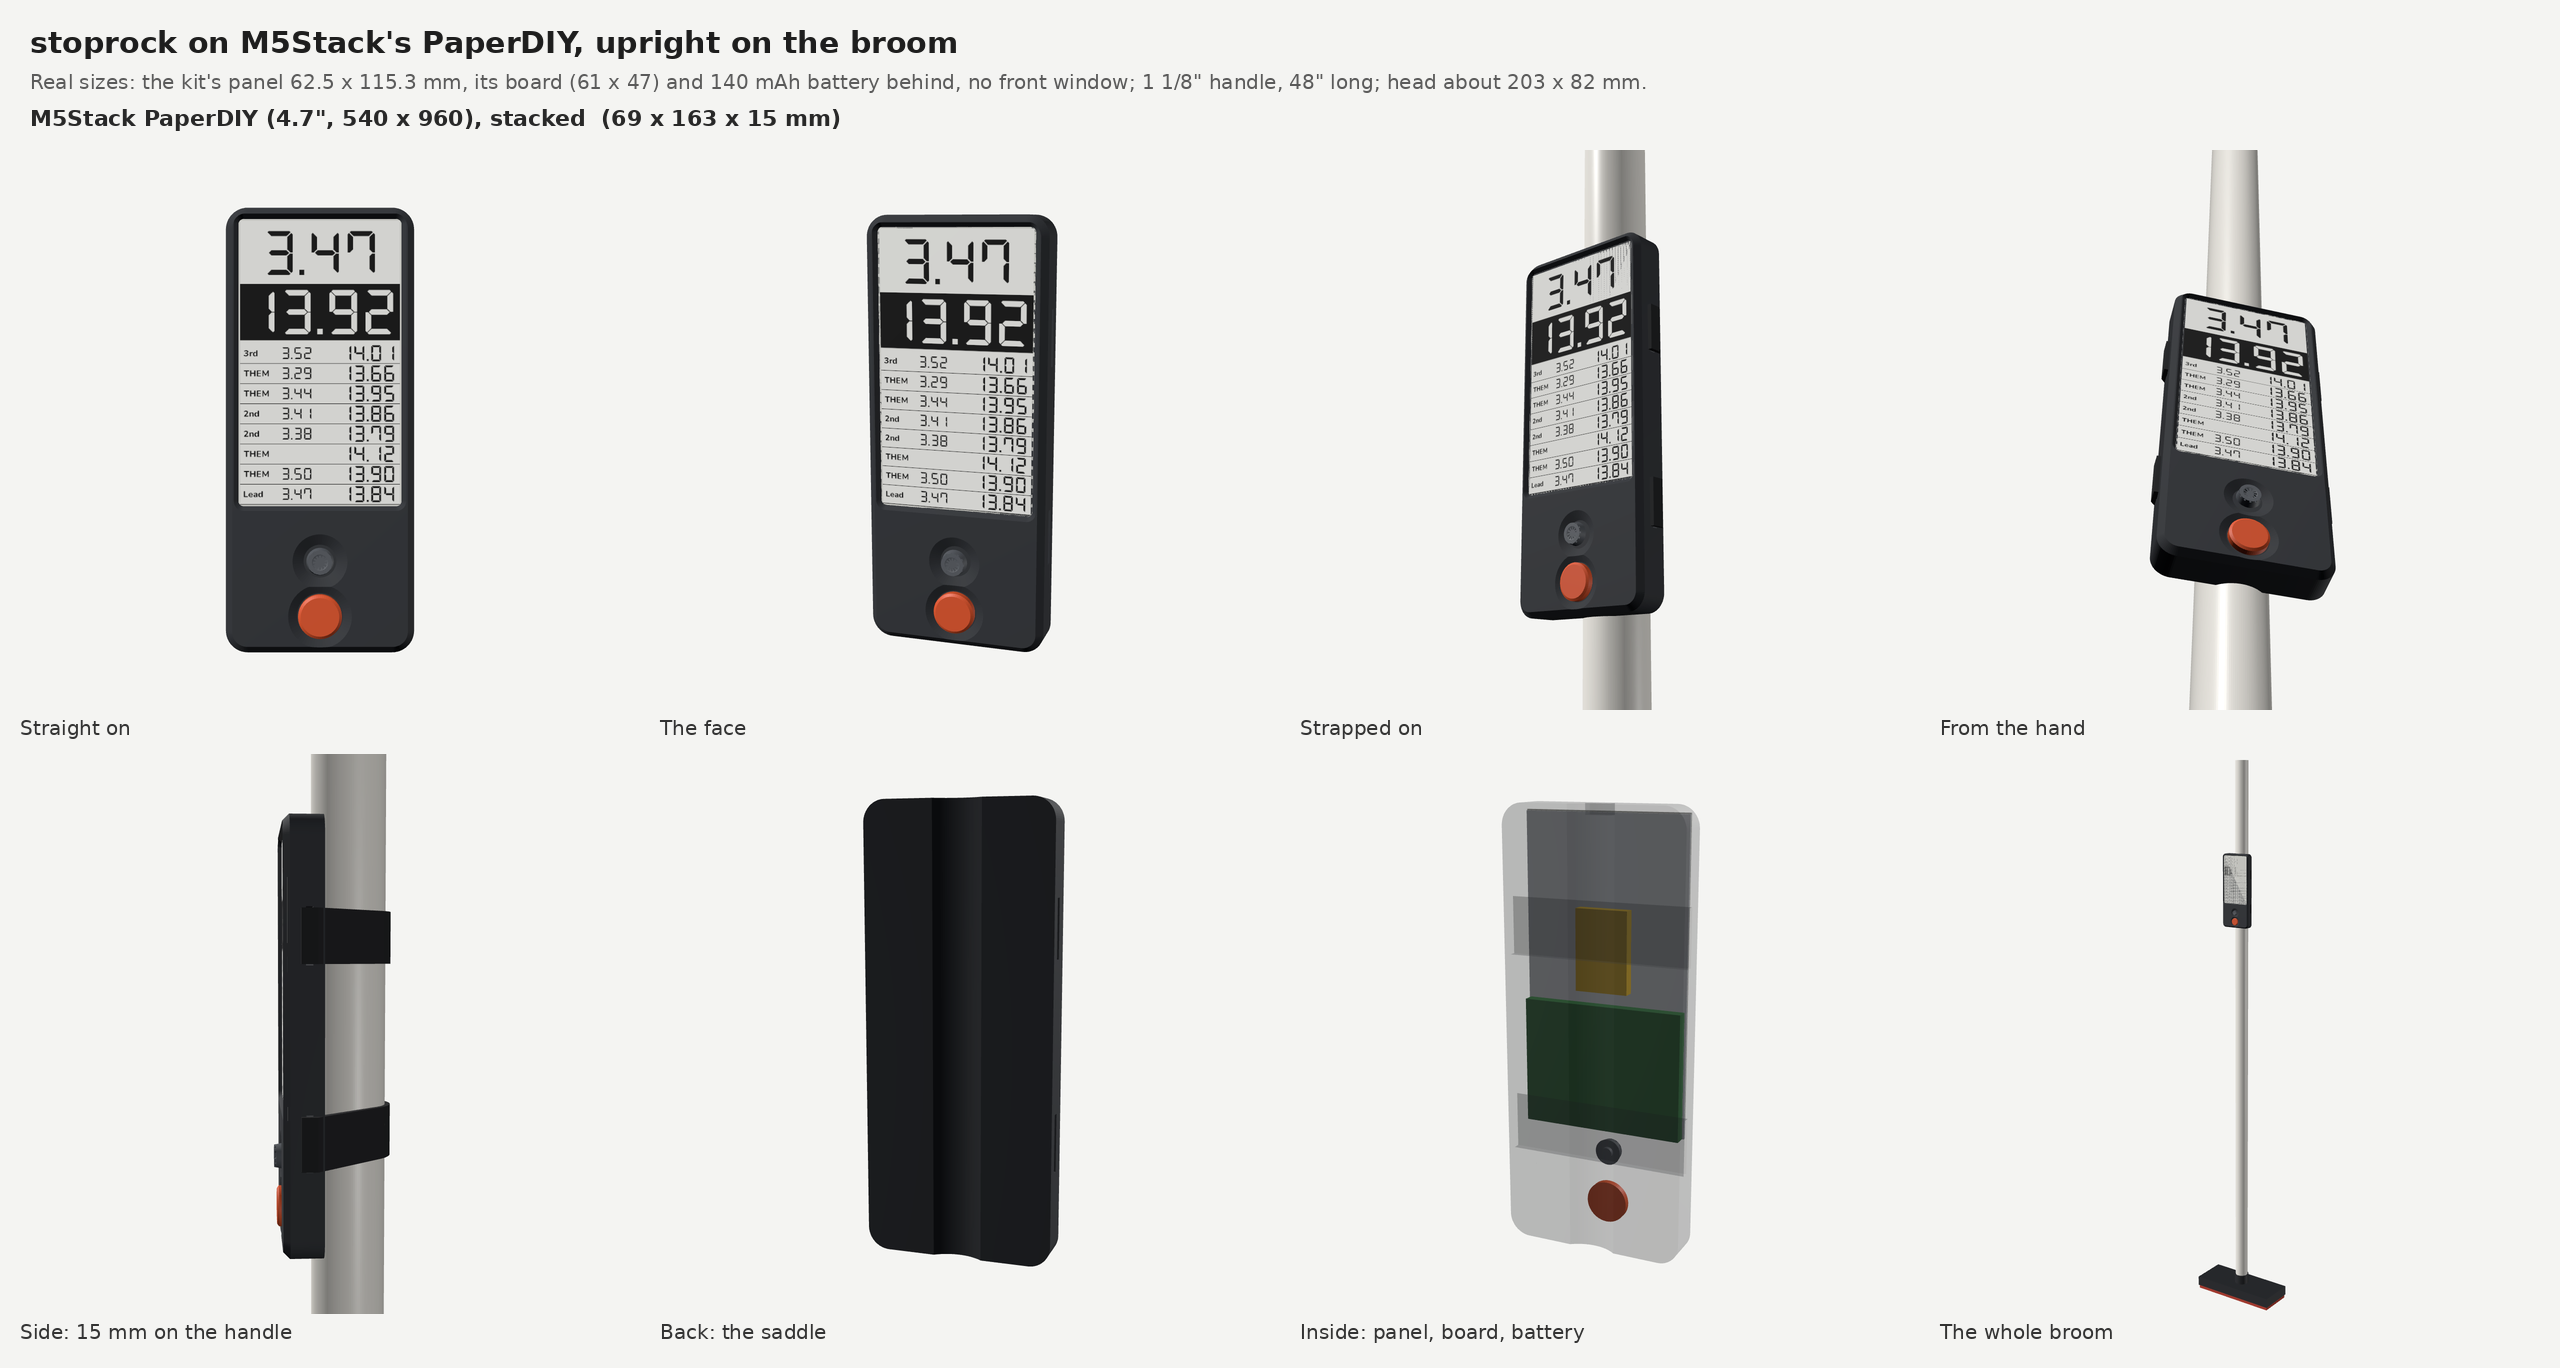
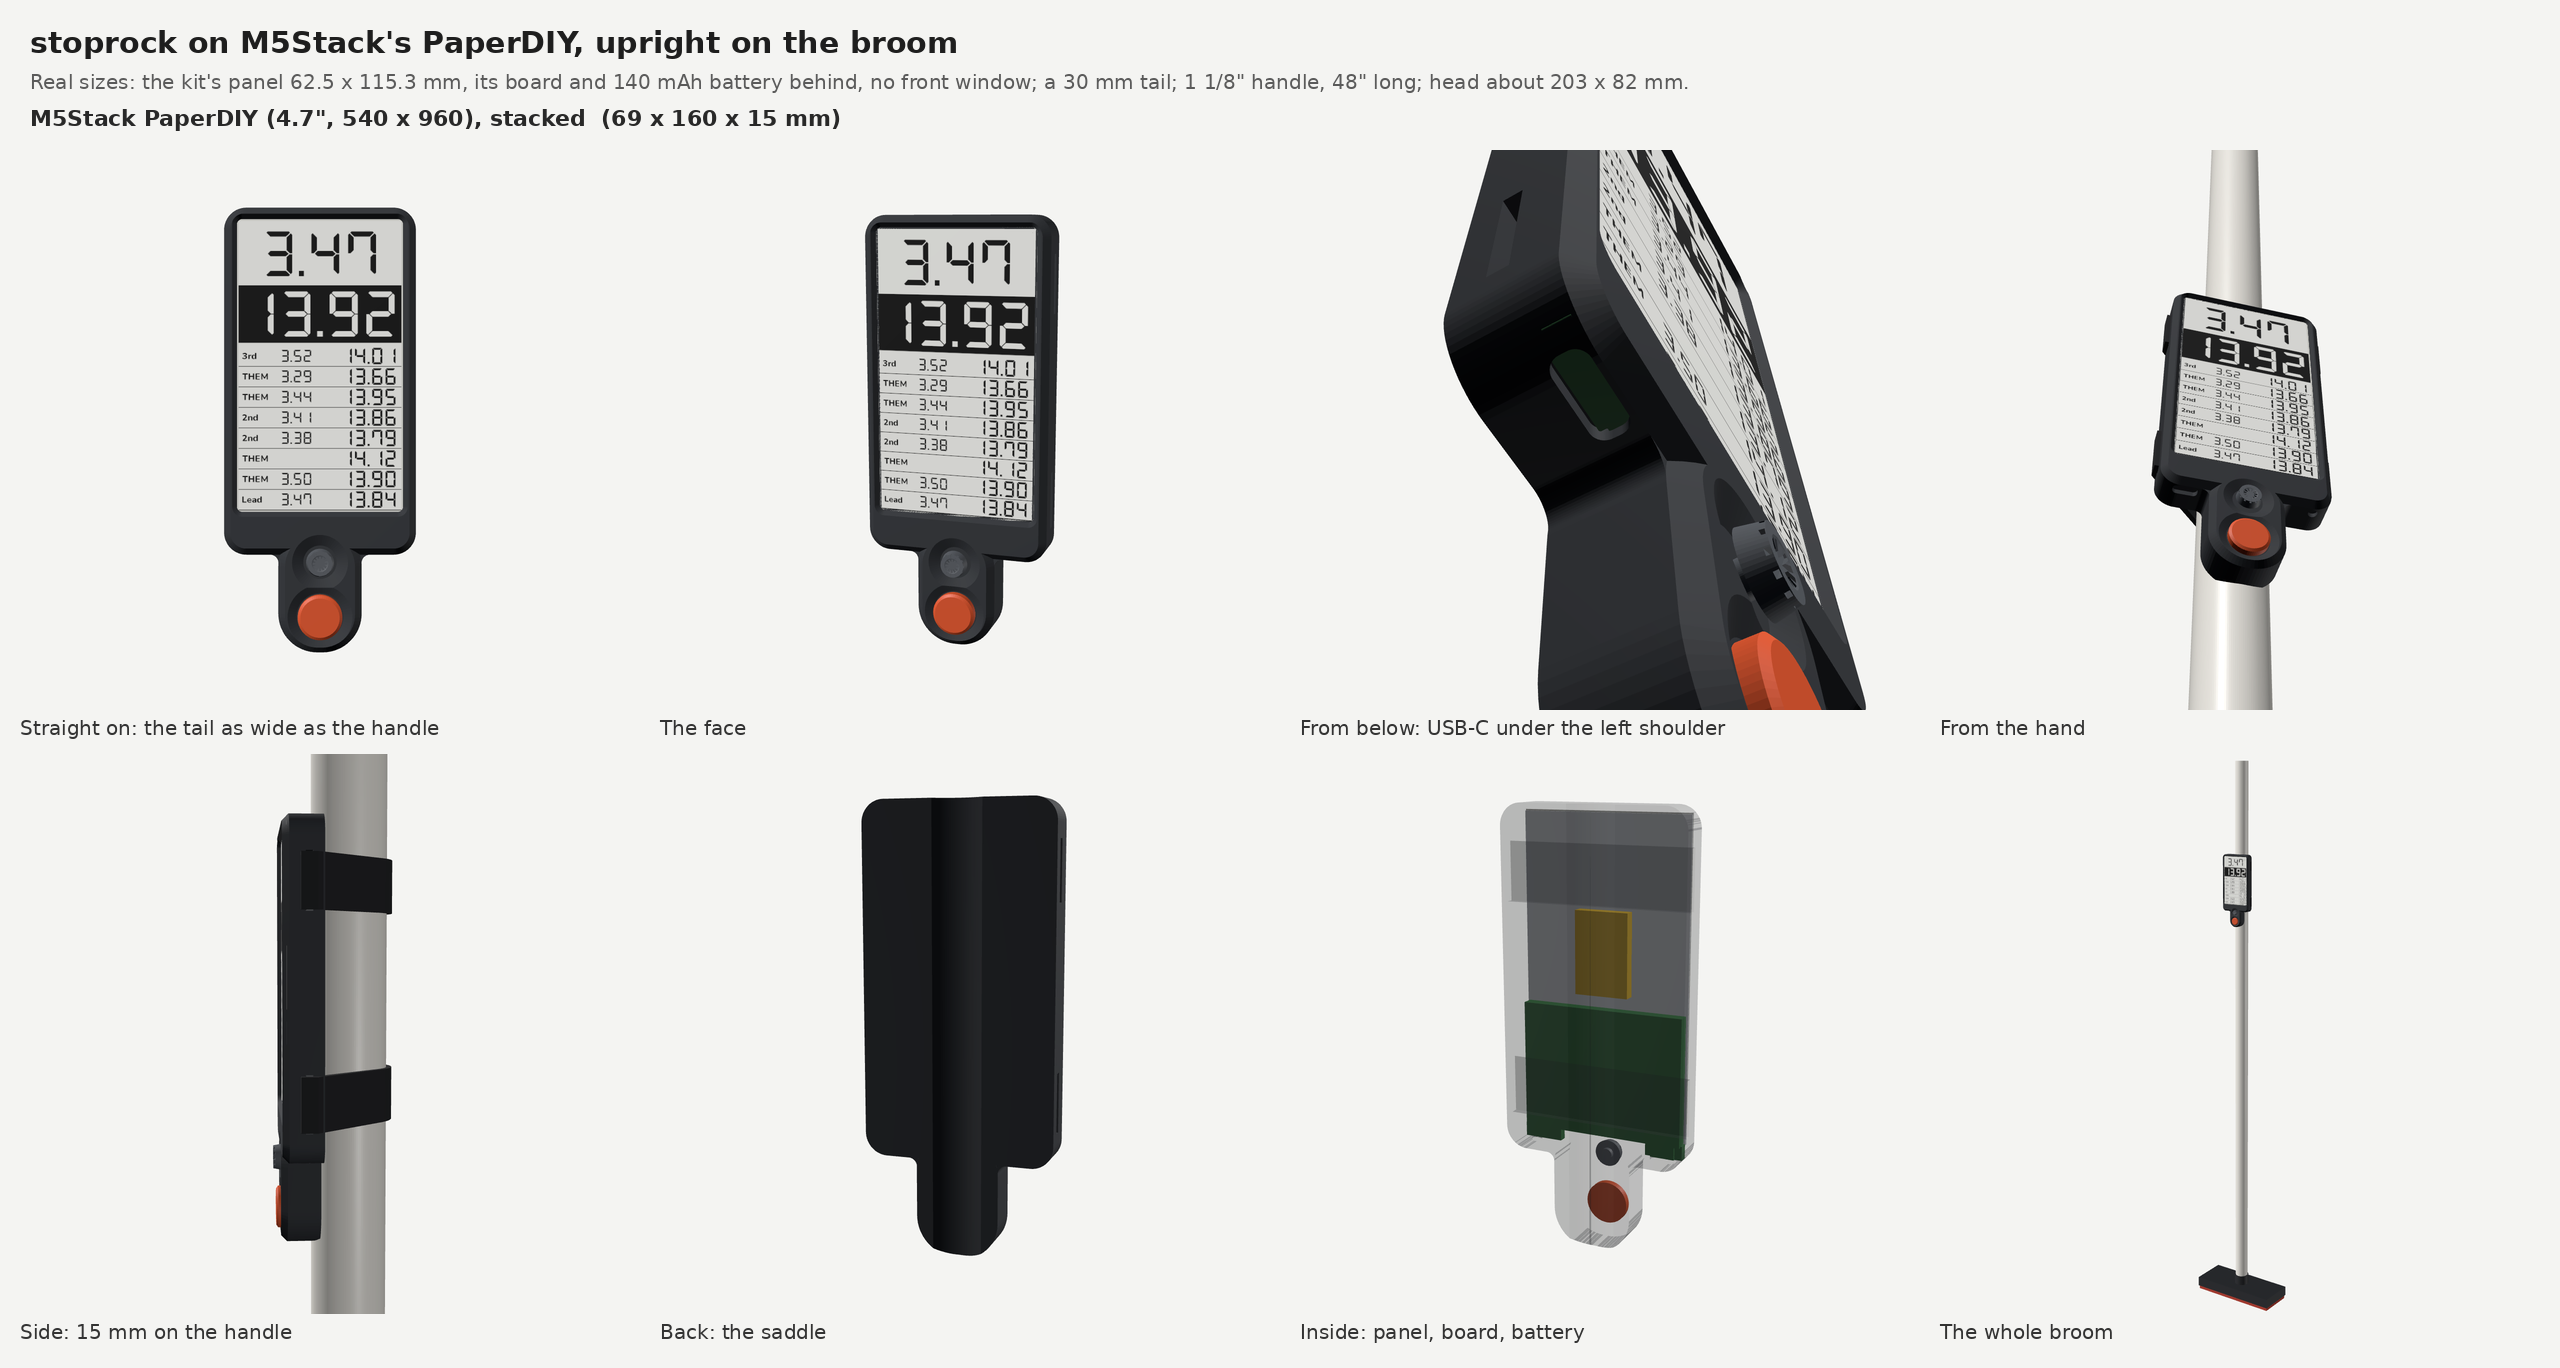
Concept (PaperDIY): narrow to a broom-width tail for the controls; ports under the shoulders
Below the screen the case narrows to a 30 mm tail for the stick and the timing
button. The kit's USB-C port and power button sit in two board tabs at the
panel's bottom corners, facing down; the tail fits between them, so both face
down onto the open shoulders, with an opening for USB-C and a hole for the
power button. 69 x 160 x 15 mm. New view from below; the layout list now
merges, so one layout can be rebuilt alone.

Claude-Session: https://claude.ai/code/session_01YA9zoncxe9XeMCwR12hQbC

diff --git a/hardware/concept-266/render/index.html b/hardware/concept-266/render/index.html
@@ -30,6 +30,7 @@ const add = async (file, material) => { const m = new THREE.Mesh(await load(file
 const part = (n) => `model-${layout}-${n}.stl`;
 const xray = view === 'xray';
 await add(part('body'), mat(0x2b2e33, xray ? { roughness: 0.8, transparent: true, opacity: 0.28, depthWrite: false } : { roughness: 0.8 }));
+if (view === 'under') await add(part('board'), mat(0x2f6b3a, { roughness: 0.6 }));   // the port, in its opening
 if (xray) {
   await add(part('panel'), mat(0xcfd2d6, { roughness: 0.4 }));
   await add(part('board'), mat(0x2f6b3a, { roughness: 0.6 }));
@@ -63,6 +64,7 @@ const views = {
   side: [[210, 15, 10], [0, 0, -8]],
   back: [[-60, 30, -180], [0, 0, -4]],
   xray: [[-80, 50, -170], [0, 0, 0]],
+  under: [[-34, -66, 14], [-20, -44, 1]],
   'broom-full': [[1350, 250, 1900], [0, -330, -12]],
 };
 const [pos0, look] = views[view] || views.front;

diff --git a/hardware/concept-266/concept.py b/hardware/concept-266/concept.py
@@ -37,9 +37,13 @@ LAYOUTS = {
     # Its panel is 62.5 x 115.3 x 1.2 mm with the board (61.2 x 47.1) on the back of its lower end,
     # 5.5 mm in all; the window is the visible area M5Stack's own enclosure shows (59.6 x 105.1), its
     # top 1 mm below the panel's top edge (the panel's wide border, 9.7 mm, is at the board end).
-    "paperdiy": dict(W=69.0, H=163.0, R=8.0, T=15.0, portrait=True, stick=(34.5, 33.5), button=(34.5, 13.5),
+    # Below the screen the case narrows to a tail the width of the handle for the stick and the button.
+    # The kit's board sticks out 4.76 mm below the panel in two corner tabs (0-14.1 and 48-62.5 mm from
+    # the panel's left edge, seen from the front) with USB-C in the left one and the power button in the
+    # right, both facing down: the tail fits between them, so both face down onto open shoulders.
+    "paperdiy": dict(W=69.0, H=160.0, R=8.0, T=15.0, portrait=True, stick=(34.5, 32.5), button=(34.5, 13.0),
                      glass=(62.5, 115.3), window=(59.6, 105.1), glass_margin=3.3, window_top=1.0,
-                     screen="screen-paperdiy.png", broom=True),
+                     screen="screen-paperdiy.png", broom=True, tail=30.0),
 }
 
 
@@ -63,6 +67,9 @@ def configure(name):
         SCREEN_CY = GLASS_TOP - GLASS[1] / 2
     (STICK_X, STICK_Y), (BUTTON_X, BUTTON_Y) = L["stick"], L["button"]
     TUNNEL_YS = (H * 0.27, H * 0.73)
+    if L.get("tail"):  # both tunnels in the wide part, clear of the shoulders
+        pb = GLASS_TOP - GLASS[1]
+        TUNNEL_YS = (pb + 16.0, H - 24.0)
 
 
 # ------------------------------------------------------------------ the broom
@@ -81,11 +88,40 @@ def _round():
     return JoinType.Round
 
 
+# The PaperDIY's bottom edge (front view, from the panel's left edge): the board's two tabs, and the
+# USB-C port and power button in them, facing down.
+TAB_DROP = 4.76
+TABS = ((0.0, 14.1), (48.0, 62.5))
+USB_X, USB_W, USB_H = (2.0, 12.6), 8.94, 3.3     # the port's span, and the receptacle's size
+POWER_X = 58.5                                   # the power button's centre
+SHOULDER_WALL = 1.5                              # under the tabs
+
+
+def rounded_piece(w, h, r, cx, cy):
+    """A rounded-edged slab: the plan's outline, its front edge eased by EDGE."""
+    lower = rounded_rect(w, h, r, cx, cy).extrude(T - EDGE)
+    top = rounded_rect(w - 2 * EDGE, h - 2 * EDGE, r - EDGE, cx, cy).extrude(0.01).translate((0, 0, T - 0.01))
+    return Manifold.batch_hull([lower, top])
+
+
+def panel_bottom():
+    return GLASS_TOP - GLASS[1]
+
+
 def body():
-    plan = rounded_rect(W, H, R, W / 2, H / 2)
-    lower = plan.extrude(T - EDGE)
-    top = rounded_rect(W - 2 * EDGE, H - 2 * EDGE, R - EDGE, W / 2, H / 2).extrude(0.01).translate((0, 0, T - 0.01))
-    shell = Manifold.batch_hull([lower, top])
+    tail = CONFIG.get("tail")
+    if not tail:
+        shell = rounded_piece(W, H, R, W / 2, H / 2)
+    else:
+        shoulder = panel_bottom() - TAB_DROP - SHOULDER_WALL        # the wide part's bottom face
+        wide = rounded_piece(W, H - shoulder, R, W / 2, (H + shoulder) / 2)
+        neck = rounded_piece(tail, shoulder + R + 2, tail / 2 - 1, W / 2, (shoulder + R + 2) / 2)
+        # concave fillets where the tail meets the shoulders
+        plan = (rounded_rect(W, H - shoulder, R, W / 2, (H + shoulder) / 2)
+                + rounded_rect(tail, shoulder + R + 2, tail / 2 - 1, W / 2, (shoulder + R + 2) / 2))
+        closed = plan.offset(3.0, join_type=_round(), circular_segments=SEG).offset(-3.0, join_type=_round(), circular_segments=SEG)
+        fillets = (closed - plan).extrude(T - EDGE)
+        shell = wide + neck + fillets
     # the screen window, recessed, with a 45-degree lead-in
     win = rounded_rect(*WINDOW, 2.0, W / 2, SCREEN_CY)
     pocket = Manifold.batch_hull([
@@ -105,9 +141,17 @@ def body():
     # two strap tunnels, across the back, open at both sides
     tunnels = [Manifold.cube((W + 2, STRAP_W + 1, TUNNEL_Z[1] - TUNNEL_Z[0])).translate((-1, y - (STRAP_W + 1) / 2, TUNNEL_Z[0]))
                for y in TUNNEL_YS]
-    # USB-C at the top end, for charging
-    usb = Manifold.cube((9.5, 6, 3.6)).translate((W / 2 - 4.75, H - 4, T / 2 - 1.8))
-    return shell - pocket - sum(wells[1:], wells[0]) - saddle - tunnels[0] - tunnels[1] - usb
+    if not tail:  # USB-C at the top end, for charging
+        usb = Manifold.cube((9.5, 6, 3.6)).translate((W / 2 - 4.75, H - 4, T / 2 - 1.8))
+        return shell - pocket - sum(wells[1:], wells[0]) - saddle - tunnels[0] - tunnels[1] - usb
+    # the kit's bottom edge faces down onto the shoulders: an opening for USB-C, a hole for the power button
+    gx0 = W / 2 - GLASS[0] / 2
+    port_z = T - WINDOW_DEPTH - 1.2 - 2.4                          # behind the glass, on the board
+    y0 = panel_bottom() - TAB_DROP - SHOULDER_WALL - 0.5
+    usb = rounded_rect(USB_W + 0.8, USB_H + 0.8, 1.6).extrude(SHOULDER_WALL + 1.0)
+    usb = usb.rotate((-90, 0, 0)).translate((gx0 + sum(USB_X) / 2, y0, port_z))
+    power = Manifold.cylinder(SHOULDER_WALL + 1.0, 1.9, circular_segments=SEG).rotate((-90, 0, 0)).translate((gx0 + POWER_X, y0, port_z))
+    return shell - pocket - sum(wells[1:], wells[0]) - saddle - tunnels[0] - tunnels[1] - usb - power
 
 
 def screen_bed():
@@ -177,7 +221,12 @@ def internals():
     front = T - WINDOW_DEPTH                     # the glass's face, under the window's lip
     gx0 = W / 2 - GLASS[0] / 2
     panel = Manifold.cube((GLASS[0], GLASS[1], 1.2)).translate((gx0, GLASS_TOP - GLASS[1], front - 1.2))
-    board = Manifold.cube((61.15, 47.1, 4.3)).translate((W / 2 - 61.15 / 2, GLASS_TOP - GLASS[1], front - 5.5))
+    pb = GLASS_TOP - GLASS[1]
+    board = Manifold.cube((61.15, 47.1, 4.3)).translate((W / 2 - 61.15 / 2, pb, front - 5.5))
+    for a, b in TABS:   # the tabs below the panel, with USB-C in the left one
+        board = board + Manifold.cube((b - a, TAB_DROP + 0.5, 3.0)).translate((gx0 + a, pb - TAB_DROP, front - 4.4))
+    port_z = front - 1.2 - 2.4
+    board = board + Manifold.cube((USB_W, 7.3, USB_H)).translate((gx0 + sum(USB_X) / 2 - USB_W / 2, pb - TAB_DROP, port_z - USB_H / 2))
     battery = Manifold.cube((20.0, 30.0, 4.0)).translate((W / 2 - 10.0, GLASS_TOP - GLASS[1] + 52.0, front - 5.2))
     return panel, board, battery
 
@@ -208,7 +257,8 @@ if __name__ == "__main__":
     import json
     import sys
     OUT.mkdir(exist_ok=True)
-    layouts = {}
+    index = OUT / "layouts.json"   # kept for every layout built, so one can be rebuilt alone
+    layouts = json.loads(index.read_text()) if index.exists() else {}
     for name in sys.argv[1:] or LAYOUTS:
         configure(name)
         parts = [("body", body()), ("glass", screen_bed()), ("stick", stick()), ("button", button()),
@@ -222,4 +272,4 @@ if __name__ == "__main__":
                              portrait=LAYOUTS[name]["portrait"], texture=CONFIG.get("screen"),
                              broom=bool(CONFIG.get("broom")))
         print(f"{name:9} case {W:.0f} x {H:.0f} x {T:.0f} mm; window {WINDOW[0]:.1f} x {WINDOW[1]:.1f}")
-    (OUT / "layouts.json").write_text(json.dumps(layouts, indent=1))
+    index.write_text(json.dumps(layouts, indent=1))

diff --git a/hardware/concept-266/render/sheet.py b/hardware/concept-266/render/sheet.py
@@ -64,9 +64,10 @@ def grid(lay, views, out, title, sub, cols=4, scale=2, captions=None):
     print("wrote", out)
 
 
-grid("paperdiy", ["face", "front", "broom", "broom-hand", "side", "back", "xray", "broom-full"], "concept-paperdiy.png",
+grid("paperdiy", ["face", "front", "under", "broom-hand", "side", "back", "xray", "broom-full"], "concept-paperdiy.png",
      "stoprock on M5Stack's PaperDIY, upright on the broom",
-     "Real sizes: the kit's panel 62.5 x 115.3 mm, its board (61 x 47) and 140 mAh battery behind, no front window;"
+     "Real sizes: the kit's panel 62.5 x 115.3 mm, its board and 140 mAh battery behind, no front window; a 30 mm tail;"
      " 1 1/8\" handle, 48\" long; head about 203 x 82 mm.",
-     captions=["Straight on", "The face", "Strapped on", "From the hand", "Side: 15 mm on the handle",
+     captions=["Straight on: the tail as wide as the handle", "The face", "From below: USB-C under the left shoulder",
+               "From the hand", "Side: 15 mm on the handle",
                "Back: the saddle", "Inside: panel, board, battery", "The whole broom"])

diff --git a/hardware/concept-266/README.md b/hardware/concept-266/README.md
@@ -13,7 +13,7 @@ mounting) isn't designed yet.
 | `concept.py` | The model, in code (manifold3d): `python concept.py [stack|row|landscape]` |
 | `screen_mock_portrait.py`, `screen_mock.py` | Rough 152 x 296 and 296 x 152 screens in our fonts, for the renders |
 | `concept-portrait.png` | The two upright layouts, captioned |
-| `concept-paperdiy.png` | The same stacked layout round M5Stack's PaperDIY kit (4.7", 540 x 960), at its real size (69 x 163 x 15 mm), on a whole broom |
+| `concept-paperdiy.png` | The same stacked layout round M5Stack's PaperDIY kit (4.7", 540 x 960), at its real size (69 x 160 x 15 mm, narrowing to a 30 mm tail for the controls), on a whole broom |
 | `screen_mock_paperdiy.py` | A rough 540 x 960 screen for it |
 | `concept-landscape.png` | The first look, with the screen across the top (84 x 80 mm) |
 | `render/` | How the renders are made |
@@ -26,3 +26,8 @@ dimension drawing: the 62.5 x 115.3 x 1.2 mm panel, the 61 x 47 mm board on the 
 window is the visible area of M5Stack's own enclosure for the kit (59.6 x 105.1 mm, in their
 M5_Hardware repository). The broom is a 1 1/8" handle, 48" long, with a head about 203 x 82 mm
 (retail listings), the case's top 200 mm below the handle's end.
+
+Below the screen the case narrows to a 30 mm tail, about the handle's width, for the stick and the timing
+button. The kit's board sticks out 4.76 mm below the panel in two corner tabs, USB-C in the left one and
+the power button in the right (seen from the front), both facing down. The tail fits between the tabs,
+so both face down onto the open shoulders: an opening for USB-C, a hole for the power button.
